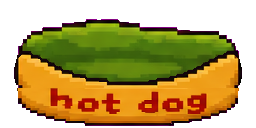
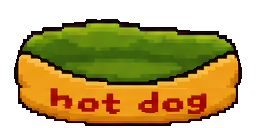
fix: rebuild hotdog bed outer outline

diff --git a/js/main.js b/js/main.js
@@ -53,9 +53,9 @@ document.addEventListener("DOMContentLoaded", () => {
     if (document.querySelector('link[data-desktop-pet-style]')) return;
     const petStyles = document.createElement("link");
     petStyles.rel = "stylesheet";
-    petStyles.href = new URL("css/desktop-pet.css?v=1.8.3", siteRoot).href;
+    petStyles.href = new URL("css/desktop-pet.css?v=1.8.4", siteRoot).href;
     petStyles.dataset.desktopPetStyle = "true";
-    const petModuleUrl = new URL("js/desktop-pet.js?v=1.8.3", siteRoot).href;
+    const petModuleUrl = new URL("js/desktop-pet.js?v=1.8.4", siteRoot).href;
     // 样式就绪后再加载组件，避免慢速网络下未应用 CSS 的桌宠短暂闪现。
     petStyles.addEventListener("load", () => {
       void import(petModuleUrl).catch((error) => console.error(`桌宠模块加载失败：${petModuleUrl}`, error));

diff --git a/js/desktop-pet.js b/js/desktop-pet.js
@@ -148,7 +148,7 @@ var SpriteTransitionController = class {
 };
 
 // ../src/components/DesktopPet/petAssets.ts
-var petAssetVersion = "1.8.3";
+var petAssetVersion = "1.8.4";
 var petAsset = (fileName) => new URL(`../images/pet/${fileName}?v=${petAssetVersion}`, import.meta.url).href;
 var petSprite = (fileName, fps, loop = true, offsetY = 0) => ({
   src: petAsset(fileName),

diff --git a/src/components/DesktopPet/petAssets.ts b/src/components/DesktopPet/petAssets.ts
@@ -1,6 +1,6 @@
 import type { PetState, SpriteDefinition } from "./types";
 
-const petAssetVersion = "1.8.3";
+const petAssetVersion = "1.8.4";
 const petAsset = (fileName: string): string =>
   new URL(`../images/pet/${fileName}?v=${petAssetVersion}`, import.meta.url).href;
 
